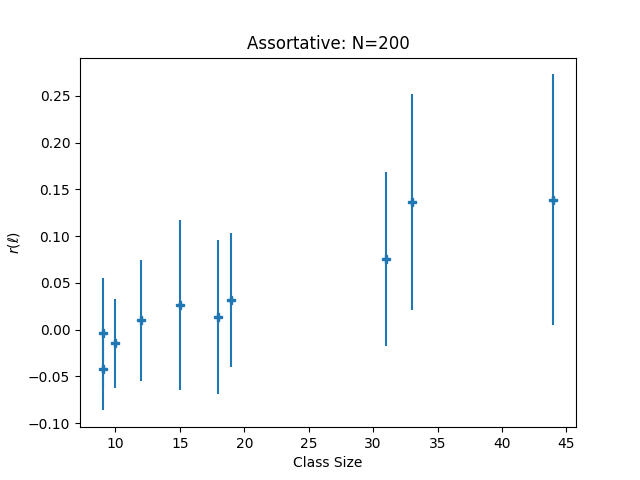
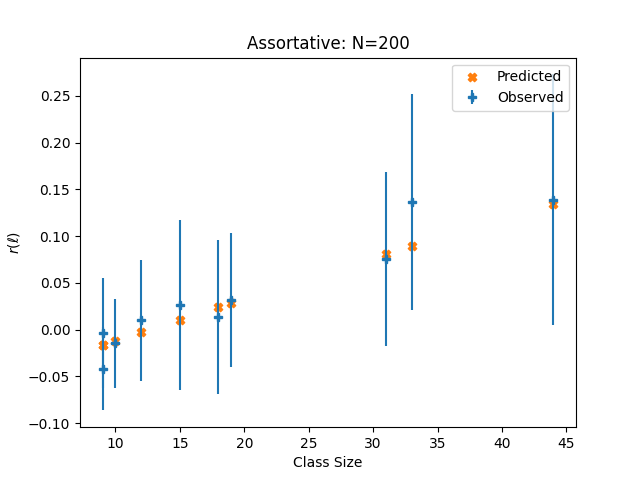
fix plots

diff --git a/tex/HW.tex b/tex/HW.tex
@@ -14,7 +14,7 @@
   breaklines=true,
 }
 
-\title{Problem Set 4}
+\title{Local Assortativity on Networks with Unbalanced Classes}
 \author{Rebecca Cohen}
 
 \begin{document}
@@ -54,6 +54,8 @@ Assumption 1 allows us to treat node degrees and edge counts as constants.  With
 
 Assumption 2 will become necessary when we compute transition probabilities for the blockwise personalized pageRank. 
 
+ALTERNATE FRAMING: random rewiring of an empirical network.
+
 TODO: Define the DC-SBM parameters
 
 Under this simplified regime, since every node has its expected degree,
@@ -63,7 +65,7 @@ Under this simplified regime, since every node has its expected degree,
 
 Noteably, $a_g$ is a constant here so 
 \begin{equation}
-  \langle r(\ell) \rangle = \frac{\langle e_{gg}(\ell) \rangle - 1 - \sum_g \big( \mathcal{M}_{gh} \big)}{1 - \sum_g \big( \mathcal{M}_{gh} \big)}
+  \langle r(\ell) \rangle = \frac{\langle e_{gg}(\ell) \rangle - \sum_g \big( \mathcal{M}_{gh} \big)}{1 - \sum_g \big( \mathcal{M}_{gh} \big)}
 \end{equation}
 
 To compute the expectation of $e_{gg}(\ell)$, we build on recent work by Chen et al \cite{chen:2020} showing that
@@ -90,20 +92,32 @@ Since totalRank is the integral of personalized pageRank over $\alpha \in [0,1]$
 
 where $w(g; \ell) = \int_0^1 w_\alpha(g; \ell)$.  This can be easily be approximated numerically.  Since $w_\alpha (g;\ell)$ can be computed in just $O(C^2)$, this integral can easily be approximated numerically from the results for many choices of $\alpha$.
 
+Substituting the expection of $\langle e_{gg}(\ell)\rangle$ back into equation NUMBER, we find
 
+\begin{equation}
+  \langle r(\ell) \rangle = \frac{\mathcal{M}_{gg} w(g; \ell) - \sum_g \big( \mathcal{M}_{gh} \big)}{1 - \sum_g \big( \mathcal{M}_{gh} \big)}
+\end{equation}
 
-
-
-
-
-
-
-
-
-
-
+Equation NUMBER depends only on the mixing matrix and blockwise PPR vector.  This means that $\langle r(\ell) \rangle$ will be the same for every element of each block, regardless of its degree.  It also means that we can compute $\langle r(\ell) \rangle$ directly from the mixing matrix.
 
 \section{Numerical Experiments}
+The calculation above relied on two highly unrealistic assumptions about the DC-SBM.  However, formula NUMBER 
+
+\begin{figure}[h!]
+\includegraphics[width=0.5\textwidth]{assortative_N_500.png}
+\includegraphics[width=0.5\textwidth]{disassortative_N_500.png}
+\includegraphics[width=0.5\textwidth]{assortative_N_5000.png}
+\includegraphics[width=0.5\textwidth]{disassortative_N_5000.png}
+\caption{Distribution of $r(\ell)$ on DC-SBM random networks with uneven class sizes and heavy-tailed degree distribution.  Networks are constructed to have similar proportions within each class and similar in- and out-group pairing probabilities}
+\end{figure}
+
+\begin{figure}[h!]
+\includegraphics[width=0.5\textwidth]{assortative_N_500_trials_50.png}
+\includegraphics[width=0.5\textwidth]{assortative_N_5000_trials_50.png}
+\includegraphics[width=0.5\textwidth]{disassortative_N_500_trials_50.png}
+\includegraphics[width=0.5\textwidth]{disassortative_N_5000_trials_50.png}
+\caption{Classwise mean $r(\ell)$ across 50 trials on DC-SBM random networks with identical parameters}
+\end{figure}
 
 \section{Discussion and Future Work}
 

diff --git a/scripts/predictions_by_node.py b/scripts/predictions_by_node.py
@@ -203,7 +203,9 @@ def run_simulation(
     cnts = df.block.value_counts().sort_index()
 
     plt.figure()
+    plt.scatter(cnts, predT, color="tab:orange",marker="X")
     plt.errorbar(cnts, means, stds,fmt="P")
+    plt.legend(["Predicted", "Observed"])
     plt.xlabel("Class Size")
     plt.ylabel("$r(\ell)$")
 
